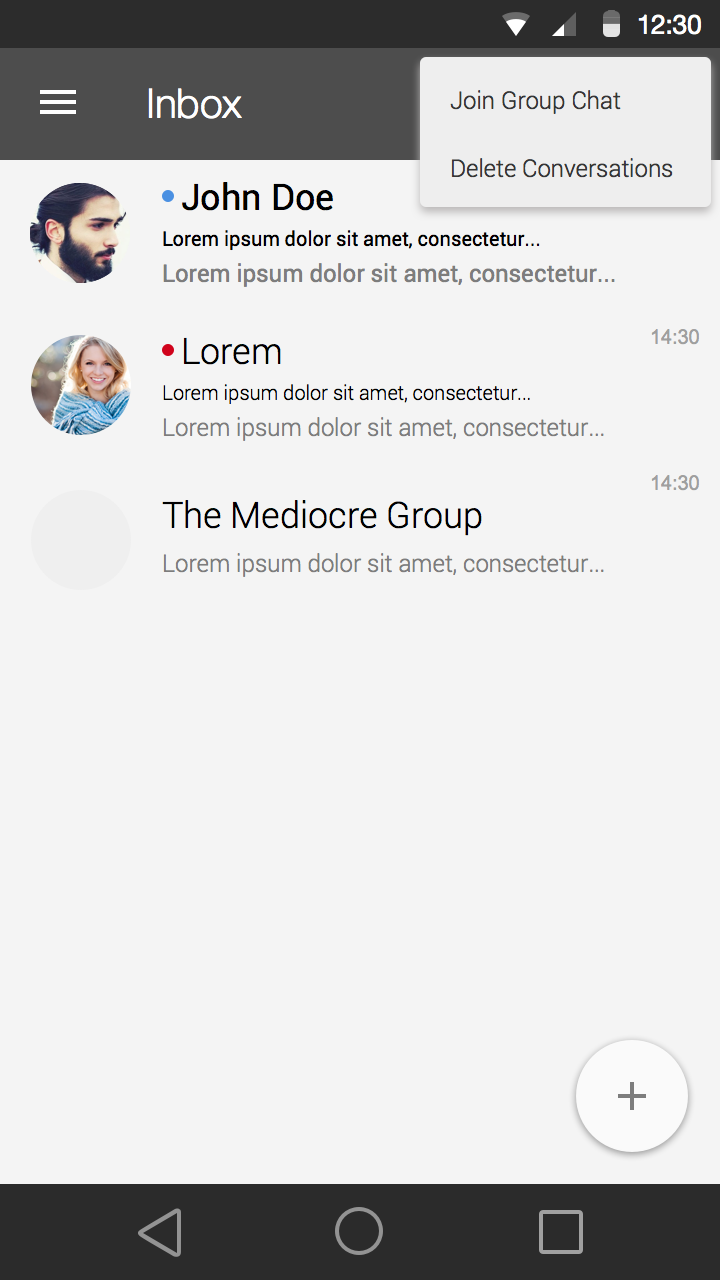
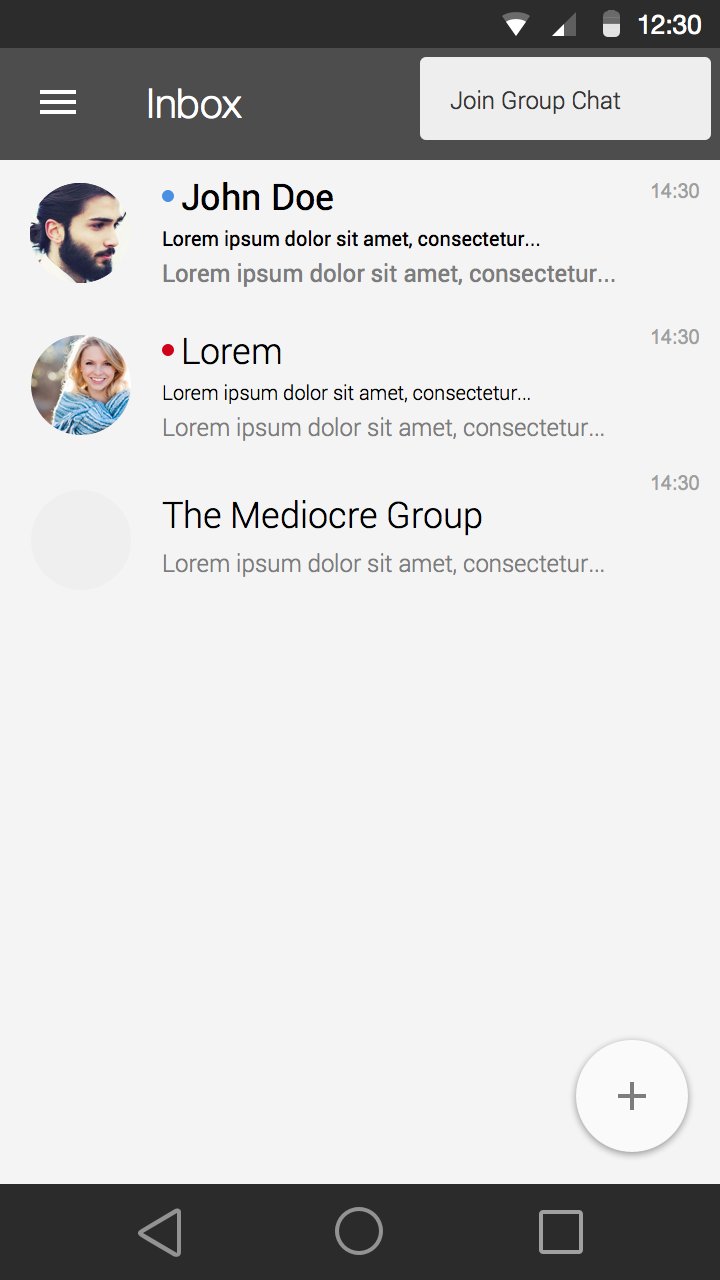
Large bug fix to the mockup

Changed region(s): [[0.5806, 0.0625, 1.0, 0.1875]]

diff --git a/doc/storyboard/MessageFiles.html b/doc/storyboard/MessageFiles.html
@@ -11,9 +11,13 @@
 				<div>
 					<div id="center">
 						<img id="centerIMG"src="img/Contacts_MessagingFiles.png">
+						<a href="gallery.html"><div class="highlight" style="position:absolute;top: 290px;left: 75px;width: 250px;height: 40px;"></div></a>
+						<a href="fileChoose.html"><div class="highlight" style="position:absolute;top: 235px;left: 75px;width: 250px;height: 40px;"></div></a>
+						<a href="Message.html"><div class="highlight" style="position:absolute;top: 346px;left: 216px;width: 100px;height: 40px;"></div></a>
+						<a href="MessageAddedFile.html"><div class="highlight" style="position:absolute;top: 346px;left: 80px;width: 100px;height: 40px;"></div></a>
+
 					</div>
 					<div id="text"><h1>Tox Android Application Mockup</h1></div>
-					<a href="MessageWritting.html" style="color:blue;">Friend Writting!</a>
 					<input id="checkbox" type="checkbox"  checked>Highlight Touch Spots<br>
 				</div>
 			</center>

diff --git a/doc/storyboard/MessageConversationDeleted.html b/doc/storyboard/MessageConversationDeleted.html
@@ -10,8 +10,10 @@
 			<center>
 				<div>
 					<div id="center">
-						<img id="centerIMG"src="img/Contacts_Messaging_RecallMessages.png">
-						<a href="MessageRecallSelected.html"><div class="highlight" style="position:absolute;top: 240px;left: 50px;width: 300px;height: 80px;"></div></a>
+						<img id="centerIMG"src="img/Contacts_MessagingDeleteConversation.png">
+						<a href="Message.html"><div class="highlight" style="position:absolute;top: 286px;left: 216px;width: 100px;height: 40px;"></div></a>
+						<a href="inboxConversationDelete.html"><div class="highlight" style="position:absolute;top: 286px;left: 82px;width: 100px;height: 40px;"></div></a>
+
 					</div>
 					<div id="text"><h1>Tox Android Application Mockup</h1></div>
 					<input id="checkbox" type="checkbox"  checked>Highlight Touch Spots<br>

diff --git a/doc/storyboard/indexSettings.html b/doc/storyboard/indexSettings.html
@@ -14,7 +14,6 @@
 						<a href="indexDrawer.html"><div class="highlight" style="position:absolute;top: 40px;left: 17px;width: 30px;height: 30px;"></div></a>
 						<a href="Message.html"><div class="highlight" style="position:absolute;top: 176px;left: 0px;width: 400px;height: 80px;"></div></a>
 						<a href="indexGroupID.html"><div class="highlight" style="position:absolute;top: 32px;left: 220px;width: 180px;height: 40px;"></div></a>
-						<a href="indexDelete.html"><div class="highlight" style="position:absolute;top: 76px;left: 220px;width: 180px;height: 40px;"></div></a>
 						<a href="GroupMessage.html"><div class="highlight" style="position:absolute;top: 260px;left: 0px;width: 400px;height: 80px;"></div></a>
 					</div>
 					<div id="text"><h1>Tox Android Application Mockup</h1></div>

diff --git a/doc/storyboard/indexGroupID.html b/doc/storyboard/indexGroupID.html
@@ -13,10 +13,10 @@
 						<img id="centerIMG"src="img/Inbox GroupID.png">
 						<a href="GroupMessage.html"><div class="highlight" style="position:absolute;top: 326px;left: 82px;width: 100px;height: 40px;"></div></a>
 						<a href="index.html"><div class="highlight" style="position:absolute;top: 326px;left: 216px;width: 100px;height: 40px;"></div></a>
+						<a href="qrcode.html"><div class="highlight" style="position:absolute;top: 273px;left: 75px;width: 250px;height: 40px;"></div></a>
 
 					</div>
 					<div id="text"><h1>Tox Android Application Mockup</h1></div>
-					<a href="Call.html" style="color:blue;">Get a Call!</a>
 					<input id="checkbox" type="checkbox"  checked>Highlight Touch Spots<br>
 				</div>
 			</center>

diff --git a/doc/storyboard/Profile.html b/doc/storyboard/Profile.html
@@ -14,6 +14,7 @@
 						<a href="javascript:history.back()"><div class="highlight" style="position:absolute;top: 669px;left: 74px;width: 30px;height: 30px;"></div></a>
 						<a href="indexDrawer.html"><div class="highlight" style="position:absolute;top: 40px;left: 17px;width: 30px;height: 30px;"></div></a>
 						<a href="ProfileScrollPromptShare.html"><div class="highlight" style="position:absolute; top: 410px;left: 17px;width: 370px;height: 70px;"></div></a>
+						<a href="gallery.html"><div class="highlight" style="position:absolute;top: 270px;left: 335px;width: 45px;height: 45px;"></div></a>
 
 					</div>
 					<div id="text"><h1>Tox Android Application Mockup</h1></div>

diff --git a/doc/storyboard/MessageSettings.html b/doc/storyboard/MessageSettings.html
@@ -19,6 +19,7 @@
 						<a href="MessageFiles.html"><div class="highlight" style="position:absolute;top: 615px;left: 18px;width: 30px;height: 30px;"></div></a>
 						<a href="MessageRecall.html"><div class="highlight" style="position:absolute;top: 150px;left: 240px;width: 150px;height: 40px;"></div></a>
 						<a href="Message.html"><div class="highlight" style="position:absolute;top: 75px;left: 240px;width: 150px;height: 35px;"></div></a>
+						<a href="MessageConversationDeleted.html"><div class="highlight" style="position:absolute;top: 112px;left: 240px;width: 150px;height: 36px;"></div></a>
 
 					</div>
 					<div id="text"><h1>Tox Android Application Mockup</h1></div>

diff --git a/doc/storyboard/MessageRecallSelected.html b/doc/storyboard/MessageRecallSelected.html
@@ -10,8 +10,8 @@
 			<center>
 				<div>
 					<div id="center">
-						<img id="centerIMG"src="img/Contacts_Messaging_RecallMessages.png">
-						<a href="MessageRecallSelected.html"><div class="highlight" style="position:absolute;top: 240px;left: 50px;width: 300px;height: 80px;"></div></a>
+						<img id="centerIMG"src="img/Contacts_Messaging_RecallMessagesSelected.png">
+						<a href="MessageRecalled.html"><div class="highlight" style="position:absolute;top: 573px;left: 317px;width: 66px;height: 68px;"></div></a>
 					</div>
 					<div id="text"><h1>Tox Android Application Mockup</h1></div>
 					<input id="checkbox" type="checkbox"  checked>Highlight Touch Spots<br>

diff --git a/doc/storyboard/addFriends.html b/doc/storyboard/addFriends.html
@@ -13,7 +13,7 @@
 						<img id="centerIMG"src="img/Friends AddPrompt.png">
 						<a href="FriendsToast.html"><div class="highlight" style="position:absolute;top: 326px;left: 82px;width: 100px;height: 40px;"></div></a>
 						<a href="Friends.html"><div class="highlight" style="position:absolute;top: 326px;left: 216px;width: 100px;height: 40px;"></div></a>
-
+						<a href="qrcode.html"><div class="highlight" style="position:absolute;top: 273px;left: 75px;width: 250px;height: 40px;"></div></a>
 					</div>
 					<div id="text"><h1>Tox Android Application Mockup</h1></div>
 					<a href="Call.html" style="color:blue;">Get a Call!</a>

diff --git a/doc/storyboard/ContactDetailsScrollDelete.html b/doc/storyboard/ContactDetailsScrollDelete.html
@@ -11,7 +11,7 @@
 				<div>
 					<div id="center">
 						<img id="centerIMG"src="img/Contacts_Details_ScrollDelete.png">
-						<a href="Friends.html"><div class="highlight" style="position:absolute;top: 290px;left: 82px;width: 100px;height: 40px;"></div></a>
+						<a href="FriendRemoved.html"><div class="highlight" style="position:absolute;top: 290px;left: 82px;width: 100px;height: 40px;"></div></a>
 						<a href="ContactDetailsScroll.html"><div class="highlight" style="position:absolute;top: 290px;left: 216px;width: 100px;height: 40px;"></div></a>
 					</div>
 					<div id="text"><h1>Tox Android Application Mockup</h1></div>

diff --git a/doc/storyboard/MessageEdit.html b/doc/storyboard/MessageEdit.html
@@ -11,6 +11,8 @@
 				<div>
 					<div id="center">
 						<img id="centerIMG"src="img/Contacts_MessagingEdit.png">
+						<a href="Message.html"><div class="highlight" style="position:absolute;top: 290px;left: 82px;width: 100px;height: 40px;"></div></a>
+						<a href="Message.html"><div class="highlight" style="position:absolute;top: 290px;left: 216px;width: 100px;height: 40px;"></div></a>
 					</div>
 					<div id="text"><h1>Tox Android Application Mockup</h1></div>
 					<input id="checkbox" type="checkbox"  checked>Highlight Touch Spots<br>

diff --git a/doc/storyboard/MessageAddedFile.html b/doc/storyboard/MessageAddedFile.html
@@ -10,8 +10,7 @@
 			<center>
 				<div>
 					<div id="center">
-						<img id="centerIMG"src="img/Contacts_Messaging_RecallMessages.png">
-						<a href="MessageRecallSelected.html"><div class="highlight" style="position:absolute;top: 240px;left: 50px;width: 300px;height: 80px;"></div></a>
+						<img id="centerIMG"src="img/Contacts_MessagingAddedFile.png">
 					</div>
 					<div id="text"><h1>Tox Android Application Mockup</h1></div>
 					<input id="checkbox" type="checkbox"  checked>Highlight Touch Spots<br>

diff --git a/doc/storyboard/MessageRecalled.html b/doc/storyboard/MessageRecalled.html
@@ -10,8 +10,7 @@
 			<center>
 				<div>
 					<div id="center">
-						<img id="centerIMG"src="img/Contacts_Messaging_RecallMessages.png">
-						<a href="MessageRecallSelected.html"><div class="highlight" style="position:absolute;top: 240px;left: 50px;width: 300px;height: 80px;"></div></a>
+						<img id="centerIMG"src="img/Contacts_MessagingRecalled.png">
 					</div>
 					<div id="text"><h1>Tox Android Application Mockup</h1></div>
 					<input id="checkbox" type="checkbox"  checked>Highlight Touch Spots<br>
